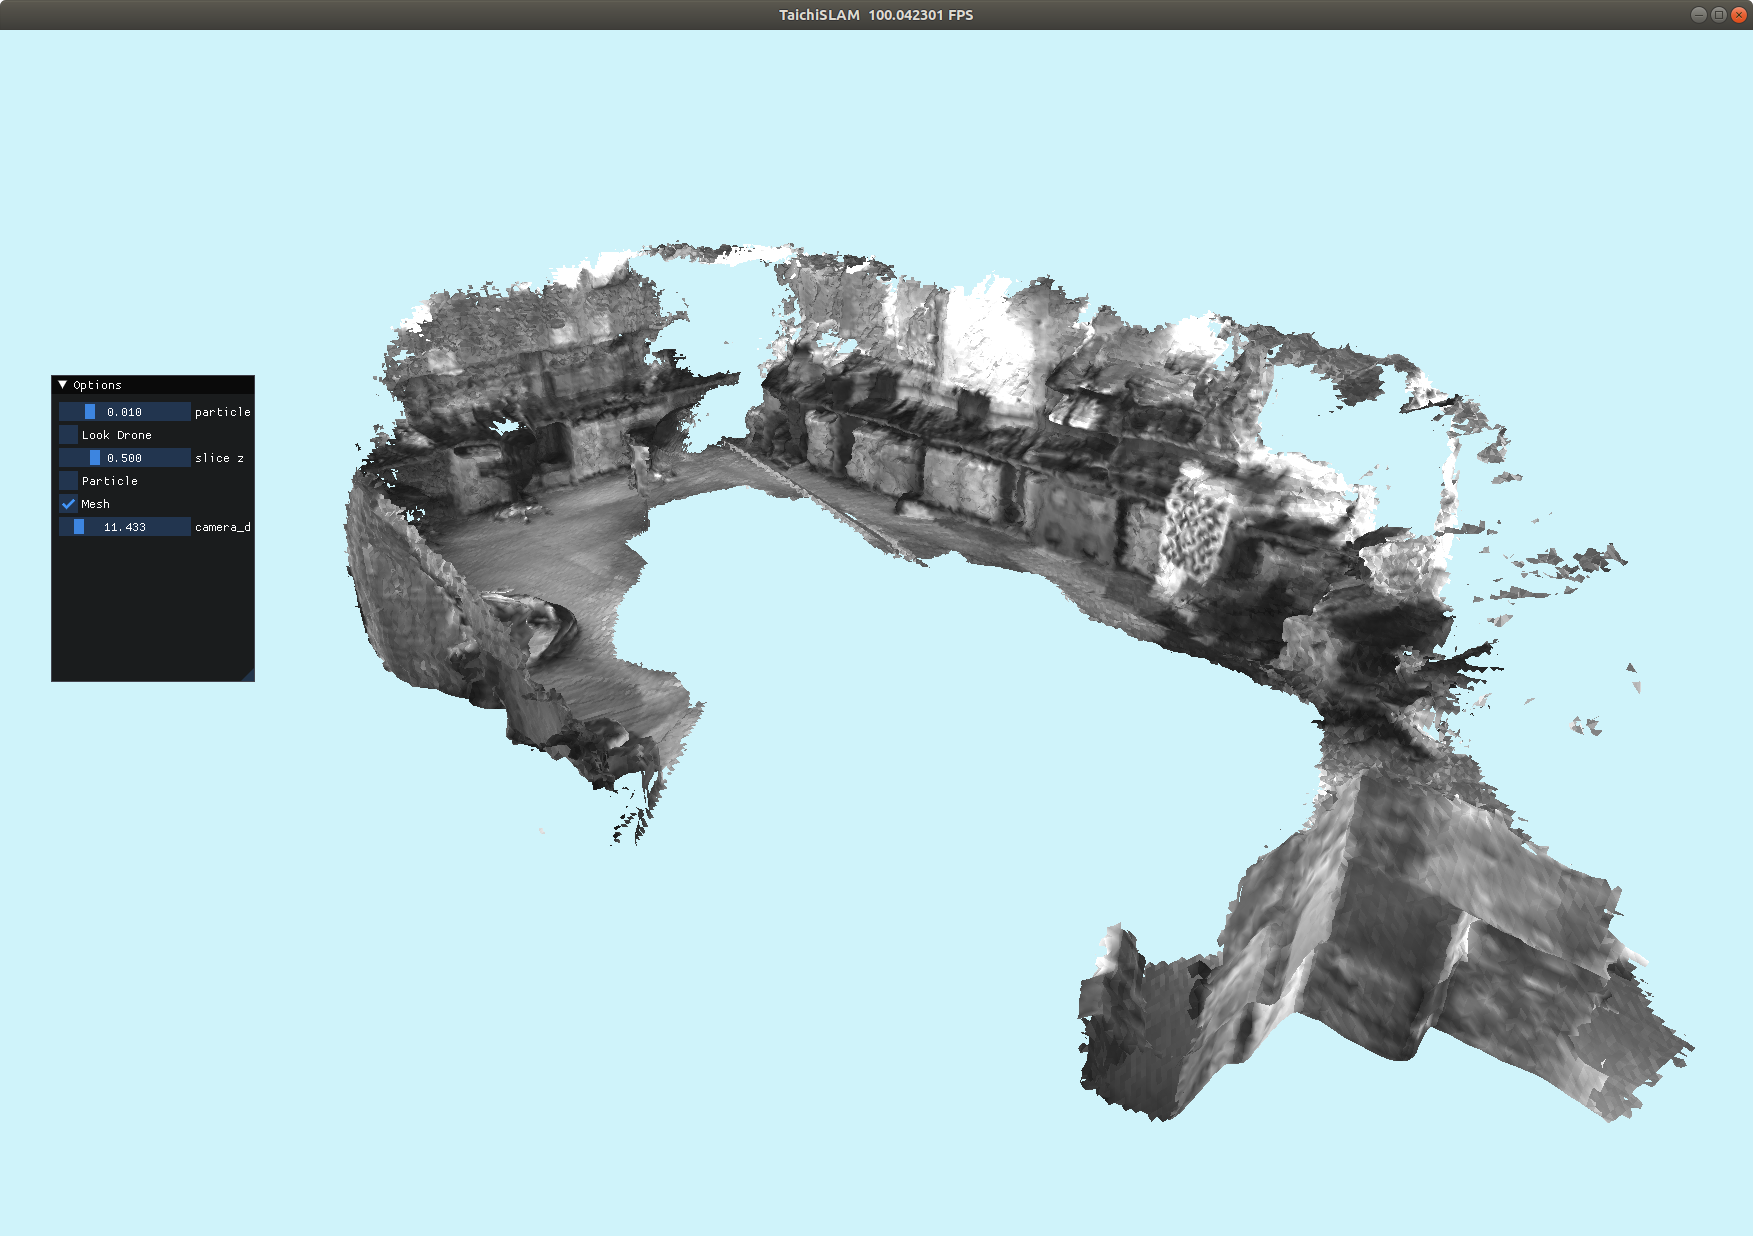
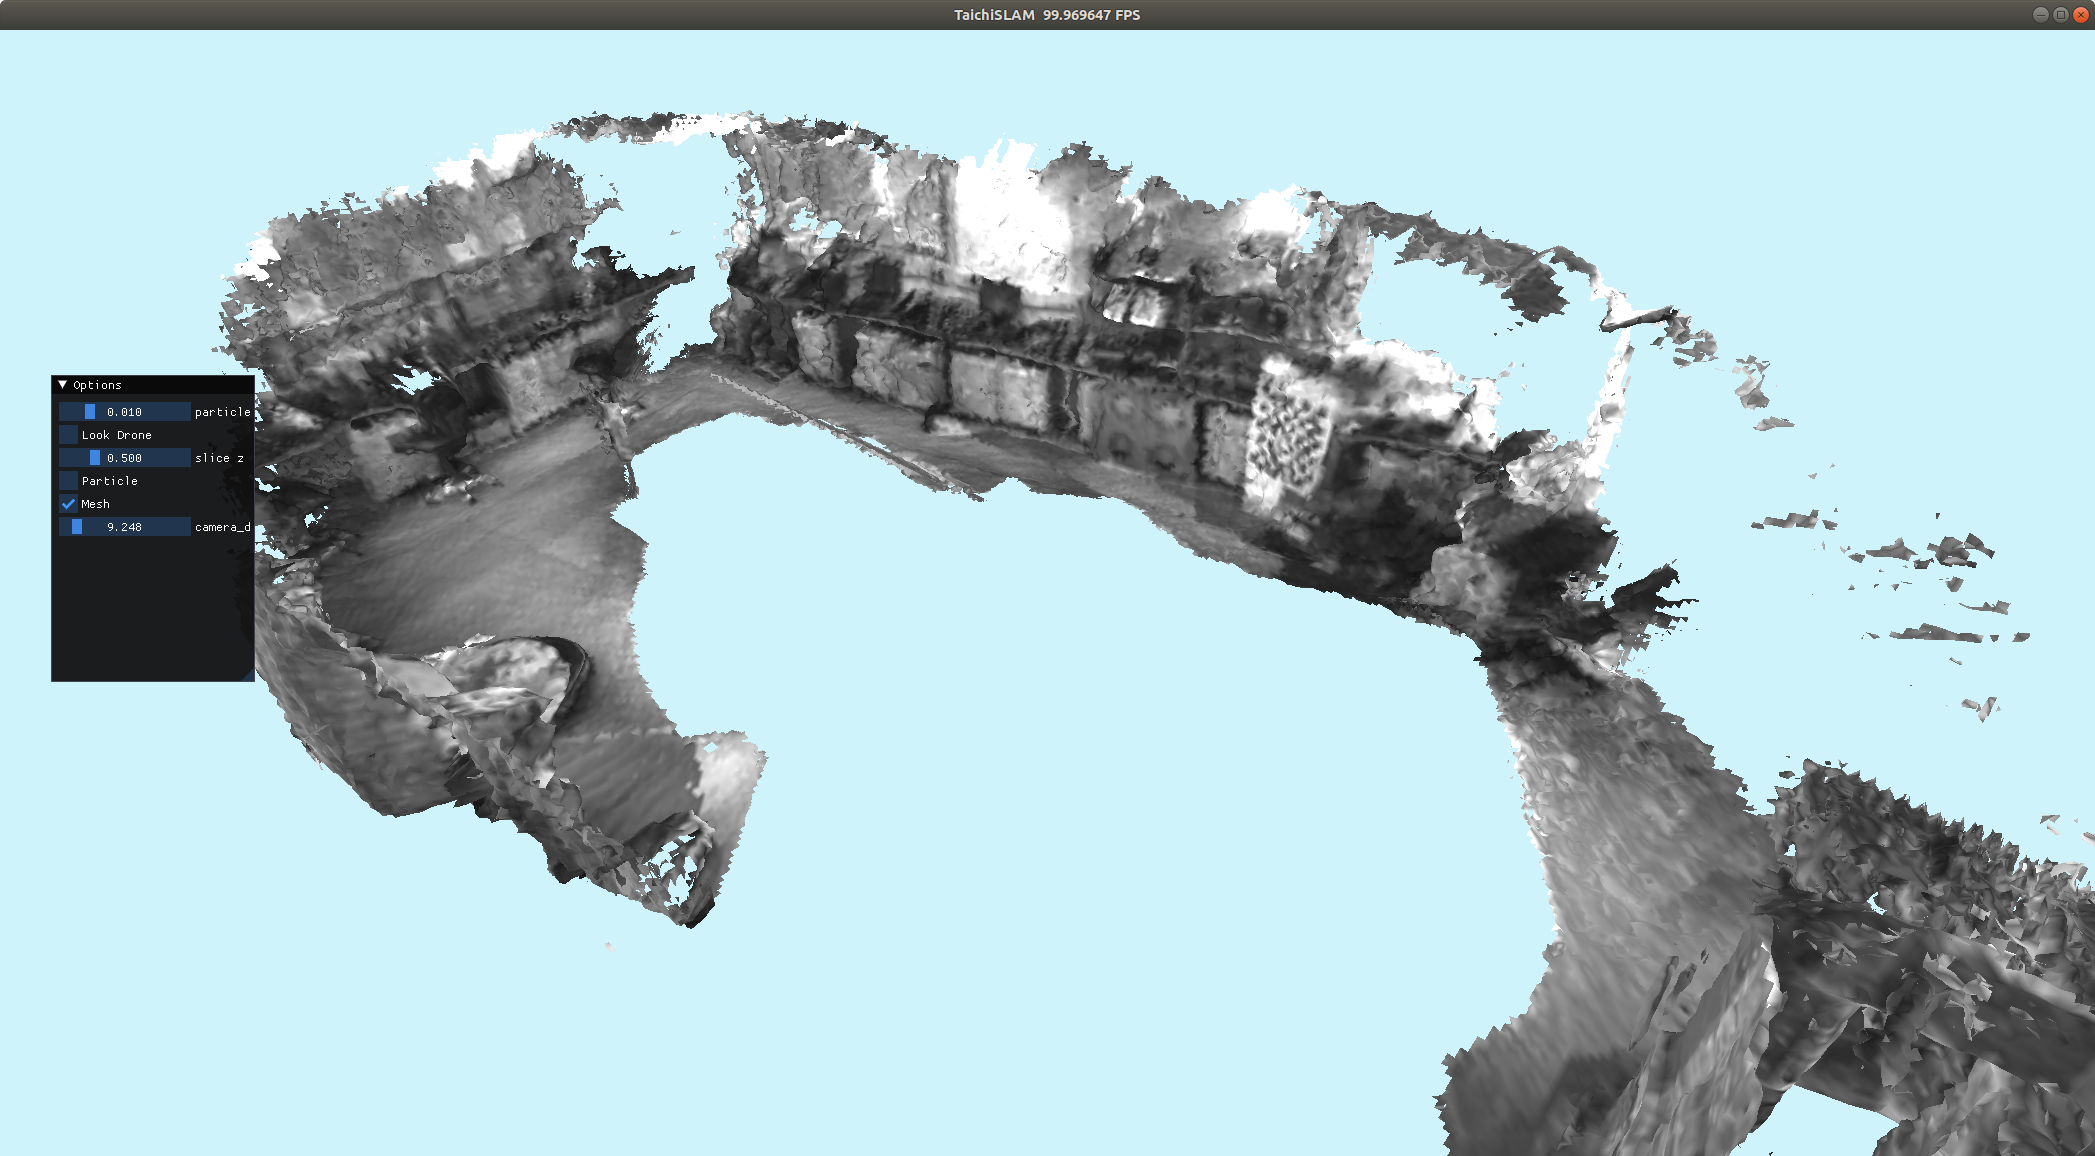
Add normals, refactor. Update doc.

diff --git a/taichi_slam/mapping/marching_cube_mesher.py b/taichi_slam/mapping/marching_cube_mesher.py
@@ -15,15 +15,25 @@ class MarchingCubeMesher:
         self.max_triangles = max_triangles
         self.mesh_vertices = ti.Vector.field(3, float, max_triangles*3)
         self.mesh_colors = ti.Vector.field(3, float, max_triangles*3)
-        self.mesh_normals = ti.Vector.field(3, float, max_triangles)
+        self.mesh_normals = ti.Vector.field(3, float, max_triangles*3)
         self.mesh_indices = ti.field(int, max_triangles*3)
 
         self.num_triangles = ti.field(dtype=ti.i32, shape=())
         self.num_vetices = ti.field(dtype=ti.i32, shape=())
         self.mapping = mapping
         self.TEXTURE_ENABLED = mapping.TEXTURE_ENABLED
+        self.init_tables()
         self.init_vertices()
     
+    def init_tables(self):
+        self.edgeTable = ti.field(dtype=ti.i32, shape=edgeTable.shape[0])
+        self.triTable = ti.field(dtype=ti.i32, shape=triTable.shape)
+        for i in range(edgeTable.shape[0]):
+            self.edgeTable[i] = edgeTable[i]
+        for i in range(triTable.shape[0]):
+            for j in range(triTable.shape[1]):
+                self.triTable[i, j] = triTable[i, j]
+
     @ti.kernel
     def init_vertices(self):
         for i in range(self.max_triangles*3):
@@ -31,10 +41,12 @@ class MarchingCubeMesher:
 
     @ti.func
     def ijk_to_xyz(self, ijk):
-        return (ijk - self.mapping.NC_)*self.mapping.voxel_size_
+        return (ijk.transpose() - self.mapping.NC_)*self.mapping.voxel_size_
 
     @ti.func
-    def vertexInterp(self, p1, p2, valp1, valp2, isolevel):
+    def vertexInterp(self, _p1, _p2, valp1, valp2, isolevel):
+        p1 = ti.cast(_p1, ti.f32)
+        p2 = ti.cast(_p2, ti.f32)
         p_ret = p1
         if abs(isolevel - valp1) < EPS:
             pass
@@ -50,125 +62,125 @@ class MarchingCubeMesher:
         return p_ret
 
     @ti.func
-    def vertexInterp_color(self, p1, p2, valp1, valp2, c1, c2, isolevel):
+    def vertexInterp_color(self, _p1, _p2, valp1, valp2, c1, c2, isolevel):
+        p1 = ti.cast(_p1, ti.f32)
+        p2 = ti.cast(_p2, ti.f32)
         p_ret = p1
         p_color = c1
         mu = 0.0
         if abs(isolevel - valp1) < EPS:
             pass
         elif abs(isolevel - valp2) < EPS:
-            p_ret[0] = p2[0]
-            p_ret[1] = p2[1]
-            p_ret[2] = p2[2]
+            p_ret = p2
         else:
             mu = (isolevel - valp1) / (valp2 - valp1)
-            p_ret[0] = p1[0] + mu * (p2[0] - p1[0])
-            p_ret[1] = p1[1] + mu * (p2[1] - p1[1])
-            p_ret[2] = p1[2] + mu * (p2[2] - p1[2])
+            p_ret = p1 + mu*(p2-p1)
 
         if c1[0] == 0 and c1[0] == 0 and c1[0] == 0:
-            p_color[0] = c2[0]
-            p_color[1] = c2[1]
-            p_color[2] = c2[2]
+            p_color = c2
         elif not (c2[0] == 0 and c2[0] == 0 and c2[0] == 0):
-            p_color[0] = c1[0] + mu * (c2[0] - c1[0])
-            p_color[1] = c1[1] + mu * (c2[1] - c1[1])
-            p_color[2] = c1[2] + mu * (c2[2] - c1[2])
+            p_color = c1 + mu * (c2-c1)
                 
         return p_ret, p_color
 
     @ti.func
-    def add_triangle(self, p0, p1, p2, triangle_idx):
+    def generate_normal(self, p, tsdf):
+        #This may not efficient because duplicate compuation, but it's OK
+        normal_x = tsdf[p[0] + 1, p[1], p[2]] - tsdf[p[0] - 1, p[1], p[2]]
+        normal_y = tsdf[p[0], p[1] + 1, p[2]] - tsdf[p[0], p[1] - 1, p[2]]
+        normal_z = tsdf[p[0], p[1], p[2] + 1] - tsdf[p[0], p[1], p[2] - 1]
+        normal = ti.Vector([normal_x, normal_y, normal_z])
+        normal = normal.normalized()
+        return normal
+
+    @ti.func
+    def add_triangle(self, p0, p1, p2, tsdf, triangle_idx):
         self.mesh_vertices[triangle_idx*3] = self.ijk_to_xyz(p0)
         self.mesh_vertices[triangle_idx*3 + 1] = self.ijk_to_xyz(p1)
         self.mesh_vertices[triangle_idx*3 + 2] = self.ijk_to_xyz(p2)
+        self.mesh_normals[triangle_idx*3] = self.generate_normal(p0, tsdf)
+        self.mesh_normals[triangle_idx*3 + 1] = self.generate_normal(p1, tsdf)
+        self.mesh_normals[triangle_idx*3 + 2] = self.generate_normal(p2, tsdf)
     
     @ti.func
-    def add_triangle_color(self, p0, p1, p2, c0, c1, c2, triangle_idx):
-        self.mesh_vertices[triangle_idx*3] = self.ijk_to_xyz(p0)
-        self.mesh_vertices[triangle_idx*3 + 1] = self.ijk_to_xyz(p1)
-        self.mesh_vertices[triangle_idx*3 + 2] = self.ijk_to_xyz(p2)
-
-        self.mesh_colors[triangle_idx*3] = c0
-        self.mesh_colors[triangle_idx*3+1] = c1
-        self.mesh_colors[triangle_idx*3+2] = c2
+    def add_triangle_color(self, c0, c1, c2, triangle_idx):
+        self.mesh_colors[triangle_idx*3] = c0.transpose()
+        self.mesh_colors[triangle_idx*3+1] = c1.transpose()
+        self.mesh_colors[triangle_idx*3+2] = c2.transpose()
     
-    @ti.kernel
-    def generate_mesh_kernel(self, obs:ti.template(), tsdf: ti.template(), color: ti.template(), step:ti.i32, edgeTable: ti.ext_arr(), triTable: ti.ext_arr()):
+    @ti.func
+    def add_triangles_by_cubeindex(self, __k, tsdf, vertlist, vertcolor, cubeindex):
+        _k = __k*3
+        if not self.triTable[cubeindex, _k] == -1:
+            index = ti.atomic_add(self.num_triangles[None], 1)
+            self.add_triangle(
+                    vertlist[self.triTable[cubeindex, _k], :],
+                    vertlist[self.triTable[cubeindex, _k + 1], :],
+                    vertlist[self.triTable[cubeindex, _k + 2], :],
+                    tsdf,index)
+            if self.TEXTURE_ENABLED:
+                self.add_triangle_color(
+                        vertcolor[self.triTable[cubeindex, _k], :],
+                        vertcolor[self.triTable[cubeindex, _k + 1], :],
+                        vertcolor[self.triTable[cubeindex, _k + 2], :],
+                        index)
+
+    @ti.func
+    def marching_on_a_cube(self, i, j, k, obs, tsdf, color, step):
         isolevel = 0.0
-        self.num_triangles[None] = 0
-        for i, j, k in tsdf:
-            if obs[i, j, k] == 1:
-                #Marching...
-                loop_should_end = 0
-                cubevalue = ti.Vector([0. for i in range(8)])
-                for _i in ti.static(range(8)):
-                    dx, dy, dz = ti.static(grid_xyz[_i][0], grid_xyz[_i][1], grid_xyz[_i][2])
-                    indices = [i + dx*step, j + dy*step, k + dz*step]
-                    cubevalue[_i] = tsdf[indices]
-                    if obs[indices] != 1:
-                        loop_should_end = 1
-                
-                if loop_should_end:
-                    continue
+        #Marching...
+        loop_should_end = 0
+        cubevalue = ti.Vector([0. for i in range(8)])
+        for _i in ti.static(range(8)):
+            dx, dy, dz = ti.static(grid_xyz[_i][0], grid_xyz[_i][1], grid_xyz[_i][2])
+            indices = [i + dx*step, j + dy*step, k + dz*step]
+            cubevalue[_i] = tsdf[indices]
+            if obs[indices] != 1:
+                loop_should_end = 1
+        ret = 0
+        if not loop_should_end:
+            cubeindex = 0
+            for _i in ti.static(range(8)):
+                if cubevalue[_i] < isolevel:
+                    cubeindex |= 1<<_i
+            
+            iEdgeFlags = self.edgeTable[cubeindex]
 
-                cubeindex = 0
-                for _i in ti.static(range(8)):
-                    if cubevalue[_i] < isolevel:
-                        cubeindex |= 1<<_i
-                
-                iEdgeFlags = edgeTable[cubeindex]
-
-                if iEdgeFlags == 0:
-                    continue
+            if iEdgeFlags != 0:
                 vertlist = ti.Matrix([[0., 0., 0.] for i in range(12)])
                 vertcolor = ti.Matrix([[0., 0., 0.] for i in range(12)])
-
                 for _j in ti.static(range(12)):
                     if iEdgeFlags & (1<<_j) > 0:
                         _p0 = ti.static(edges_grid_xyz)[_j][0]
                         _p1 = ti.static(edges_grid_xyz)[_j][1]
-                        p0 = [i + _p0[0]*step, j + _p0[1]*step, k + _p0[2]*step]
-                        p1 = [i + _p1[0]*step, j + _p1[1]*step, k + _p1[2]*step]
+                        p0 = ti.Vector([i + _p0[0]*step, j + _p0[1]*step, k + _p0[2]*step])
+                        p1 = ti.Vector([i + _p1[0]*step, j + _p1[1]*step, k + _p1[2]*step])
                         if self.TEXTURE_ENABLED:
                             p, c = self.vertexInterp_color(p0, p1, tsdf[p0], tsdf[p1], color[p0], color[p1], isolevel)
                             vertlist[_j, 0] = p[0]
                             vertlist[_j, 1] = p[1]
                             vertlist[_j, 2] = p[2]
-
                             vertcolor[_j, 0] = c[0]
                             vertcolor[_j, 1] = c[1]
                             vertcolor[_j, 2] = c[2]
-
                         else:
                             p = self.vertexInterp(p0, p1, tsdf[p0], tsdf[p1], isolevel)
                             vertlist[_j, 0] = p[0]
                             vertlist[_j, 1] = p[1]
                             vertlist[_j, 2] = p[2]
-
                 for __k in range(5):
-                    _k = __k*3
-                    if triTable[cubeindex, _k] == -1:
-                        pass
-                    else:
-                        if self.TEXTURE_ENABLED:
-                            self.add_triangle_color(
-                                    slice3(vertlist, triTable[cubeindex, _k]),
-                                    slice3(vertlist, triTable[cubeindex, _k + 1]),
-                                    slice3(vertlist, triTable[cubeindex, _k + 2]),
-                                    slice3(vertcolor, triTable[cubeindex, _k]),
-                                    slice3(vertcolor, triTable[cubeindex, _k + 1]),
-                                    slice3(vertcolor, triTable[cubeindex, _k + 2]),
-                                    ti.atomic_add(self.num_triangles[None], 1))
-                        else:
-                            self.add_triangle(
-                                    slice3(vertlist, triTable[cubeindex, _k]),
-                                    slice3(vertlist, triTable[cubeindex, _k + 1]),
-                                    slice3(vertlist, triTable[cubeindex, _k + 2]),
-                                    ti.atomic_add(self.num_triangles[None], 1))
-
+                    self.add_triangles_by_cubeindex(__k, tsdf, vertlist, vertcolor, cubeindex)
                     if self.num_triangles[None] > self.max_triangles:
+                        ret = -1
                         break
+        return ret
+
+    @ti.kernel
+    def generate_mesh_kernel(self, obs:ti.template(), tsdf: ti.template(), color: ti.template(), step:ti.i32):
+        self.num_triangles[None] = 0
+        for i, j, k in tsdf:
+            if obs[i, j, k] == 1:
+                ret = self.marching_on_a_cube(i, j, k, obs, tsdf, color, step) 
 
         print("Total triangles", self.num_triangles[None])
     
@@ -176,19 +188,19 @@ class MarchingCubeMesher:
         return self.num_triangles[None]*3
 
     def generate_mesh(self, step=1):
-        self.generate_mesh_kernel(self.mapping.TSDF_observed, self.mapping.TSDF, self.mapping.color, step, edgeTable, triTable)
+        self.generate_mesh_kernel(self.mapping.TSDF_observed, self.mapping.TSDF, self.mapping.color, step)
 
 
 grid_xyz = [
     # X Y Z
-    [0., 0., 0.], # V0
-    [1., 0., 0.], # V1
-    [1., 1., 0.], # V2
-    [0., 1., 0.], # V3
-    [0., 0., 1.], # V4
-    [1., 0., 1.], # V5
-    [1., 1., 1.], # V6
-    [0., 1., 1.], # V7
+    [0, 0, 0], # V0
+    [1, 0, 0], # V1
+    [1, 1, 0], # V2
+    [0, 1, 0], # V3
+    [0, 0, 1], # V4
+    [1, 0, 1], # V5
+    [1, 1, 1], # V6
+    [0, 1, 1], # V7
 ]
 
 edges_grid_id = [

diff --git a/taichi_slam/utils/visualization.py b/taichi_slam/utils/visualization.py
@@ -17,6 +17,7 @@ class TaichiSLAMRender:
         self.par_color = None
         self.mesh_vertices = None
         self.mesh_color = None
+        self.mesh_normals = None
 
         self.camera_yaw = 0
         self.camera_pitch = -0.5
@@ -70,9 +71,10 @@ class TaichiSLAMRender:
         self.par = par
         self.par_color = color
 
-    def set_mesh(self, mesh, color, indices=None):
+    def set_mesh(self, mesh, color, normals=None, indices=None):
         self.mesh_vertices = mesh
         self.mesh_color = color
+        self.mesh_normals = normals
         self.mesh_indices = None
 
     def handle_events(self):
@@ -109,10 +111,10 @@ class TaichiSLAMRender:
 
         if self.disp_particles and self.par is not None:
             scene.particles(self.par, per_vertex_color=self.par_color, radius=self.pcl_radius)
-                
         if self.disp_mesh and self.mesh_vertices is not None:
             scene.mesh(self.mesh_vertices,
                indices=self.mesh_indices,
+               normals=self.mesh_normals,
                per_vertex_color=self.mesh_color,
                two_sided=True)
             

diff --git a/scripts/taichislam_node.py b/scripts/taichislam_node.py
@@ -115,7 +115,7 @@ class TaichiSLAMNode:
         self.mesher.generate_mesh(1)
         mesher = self.mesher
         self.render.set_particles(mesher.mesh_vertices, mesher.mesh_vertices)
-        self.render.set_mesh(mesher.mesh_vertices, mesher.mesh_colors, mesher.mesh_indices)
+        self.render.set_mesh(mesher.mesh_vertices, mesher.mesh_colors, mesher.mesh_normals, mesher.mesh_indices)
     
     def update_test_mesher(self):
         self.mapping.cvt_TSDF_to_voxels_slice(self.render.slice_z, 100)
@@ -200,8 +200,7 @@ class TaichiSLAMNode:
                 mesher.generate_mesh(1)
                 t_mesh = (time.time() - start_time)*1000
                 if self.enable_rendering:
-                    self.render.set_mesh(mesher.mesh_vertices, mesher.mesh_colors)
-                # self.render.set_particles(mesher.mesh_vertices, mesher.mesh_vertices)
+                    self.render.set_mesh(mesher.mesh_vertices, mesher.mesh_colors, mesher.mesh_normals)
             else:
                 start_time = time.time()
                 mapping.cvt_TSDF_surface_to_voxels()

diff --git a/tests/marching_cube_test.py b/tests/marching_cube_test.py
@@ -7,11 +7,10 @@ from taichi_slam.mapping import *
 
 if __name__ == "__main__":
     ti.init(arch=ti.cuda, dynamic_index=True)
-    render = TaichiSLAMRender(1920, 1080)
     mapping = DenseESDF(texture_enabled=True, 
                 max_disp_particles=10000, 
                 min_occupy_thres = 1,
-                map_scale=[3, 3],
+                map_scale=[100, 100],
                 voxel_size=0.05,
                 block_size=16,
                 enable_esdf=False,
@@ -20,9 +19,11 @@ if __name__ == "__main__":
     mesher = MarchingCubeMesher(mapping, max_mesh)
     mapping.init_sphere()
     mesher.generate_mesh(1)
+
+    render = TaichiSLAMRender(1920, 1080)
     render.camera_distance = 3
     render.set_particles(mesher.mesh_vertices, mesher.mesh_vertices)
-    render.set_mesh(mesher.mesh_vertices, mesher.mesh_colors, mesher.mesh_indices)
+    render.set_mesh(mesher.mesh_vertices, mesher.mesh_colors, mesher.mesh_normals, mesher.mesh_indices)
 
     while True:
         try:

diff --git a/taichi_slam/mapping/dense_esdf.py b/taichi_slam/mapping/dense_esdf.py
@@ -146,7 +146,7 @@ class DenseESDF(Basemap):
 
     @ti.kernel
     def init_sphere(self):
-        voxels = 10
+        voxels = 30
         radius = self.voxel_size*3
         print(radius)
         for i in range(self.N/2-voxels/2, self.N/2+voxels/2):
@@ -155,7 +155,7 @@ class DenseESDF(Basemap):
                     p = self.ijk_to_xyz([i, j, k])
                     self.TSDF[i, j, k] = p.norm() - radius
                     self.TSDF_observed[i, j, k] = 1
-                    self.color[i, j, k] = self.colormap[(p[2]-0.5)/radius*0.5*1024]
+                    self.color[i, j, k] = self.colormap[int((p[2]-0.5)/radius*0.5*1024)]
     @ti.func
     def constrain_coor(self, _i):
         _i = _i.cast(int)

diff --git a/README.md b/README.md
@@ -44,13 +44,13 @@ echo export PYTHONPATH=`pwd`/taichi_three:`pwd`/TaichiSLAM:\$PYTHONPATH >> ~/.zs
 Download cow_and_lady_dataset from [voxblox](http://robotics.ethz.ch/~asl-datasets/iros_2017_voxblox/data.bag).
 
 ## Integration with ROS
-Running TaichiSLAMNode (require ROS), dataset at [link]()
+Running TaichiSLAMNode (require ROS), download dataset at this [link](https://www.dropbox.com/s/7b4ltoap59bo44g/taichislam-realsense435.bag?dl=0).
 
 ```python
 # Terminal 1
 rosbag play taichislam-realsense435.bag
 # Terminal 2
-roslaunch launch/taichislam-d435.launch viz:=false show:=true
+roslaunch launch/taichislam-d435.launch show:=true
 ```
 
 ## Other demos
